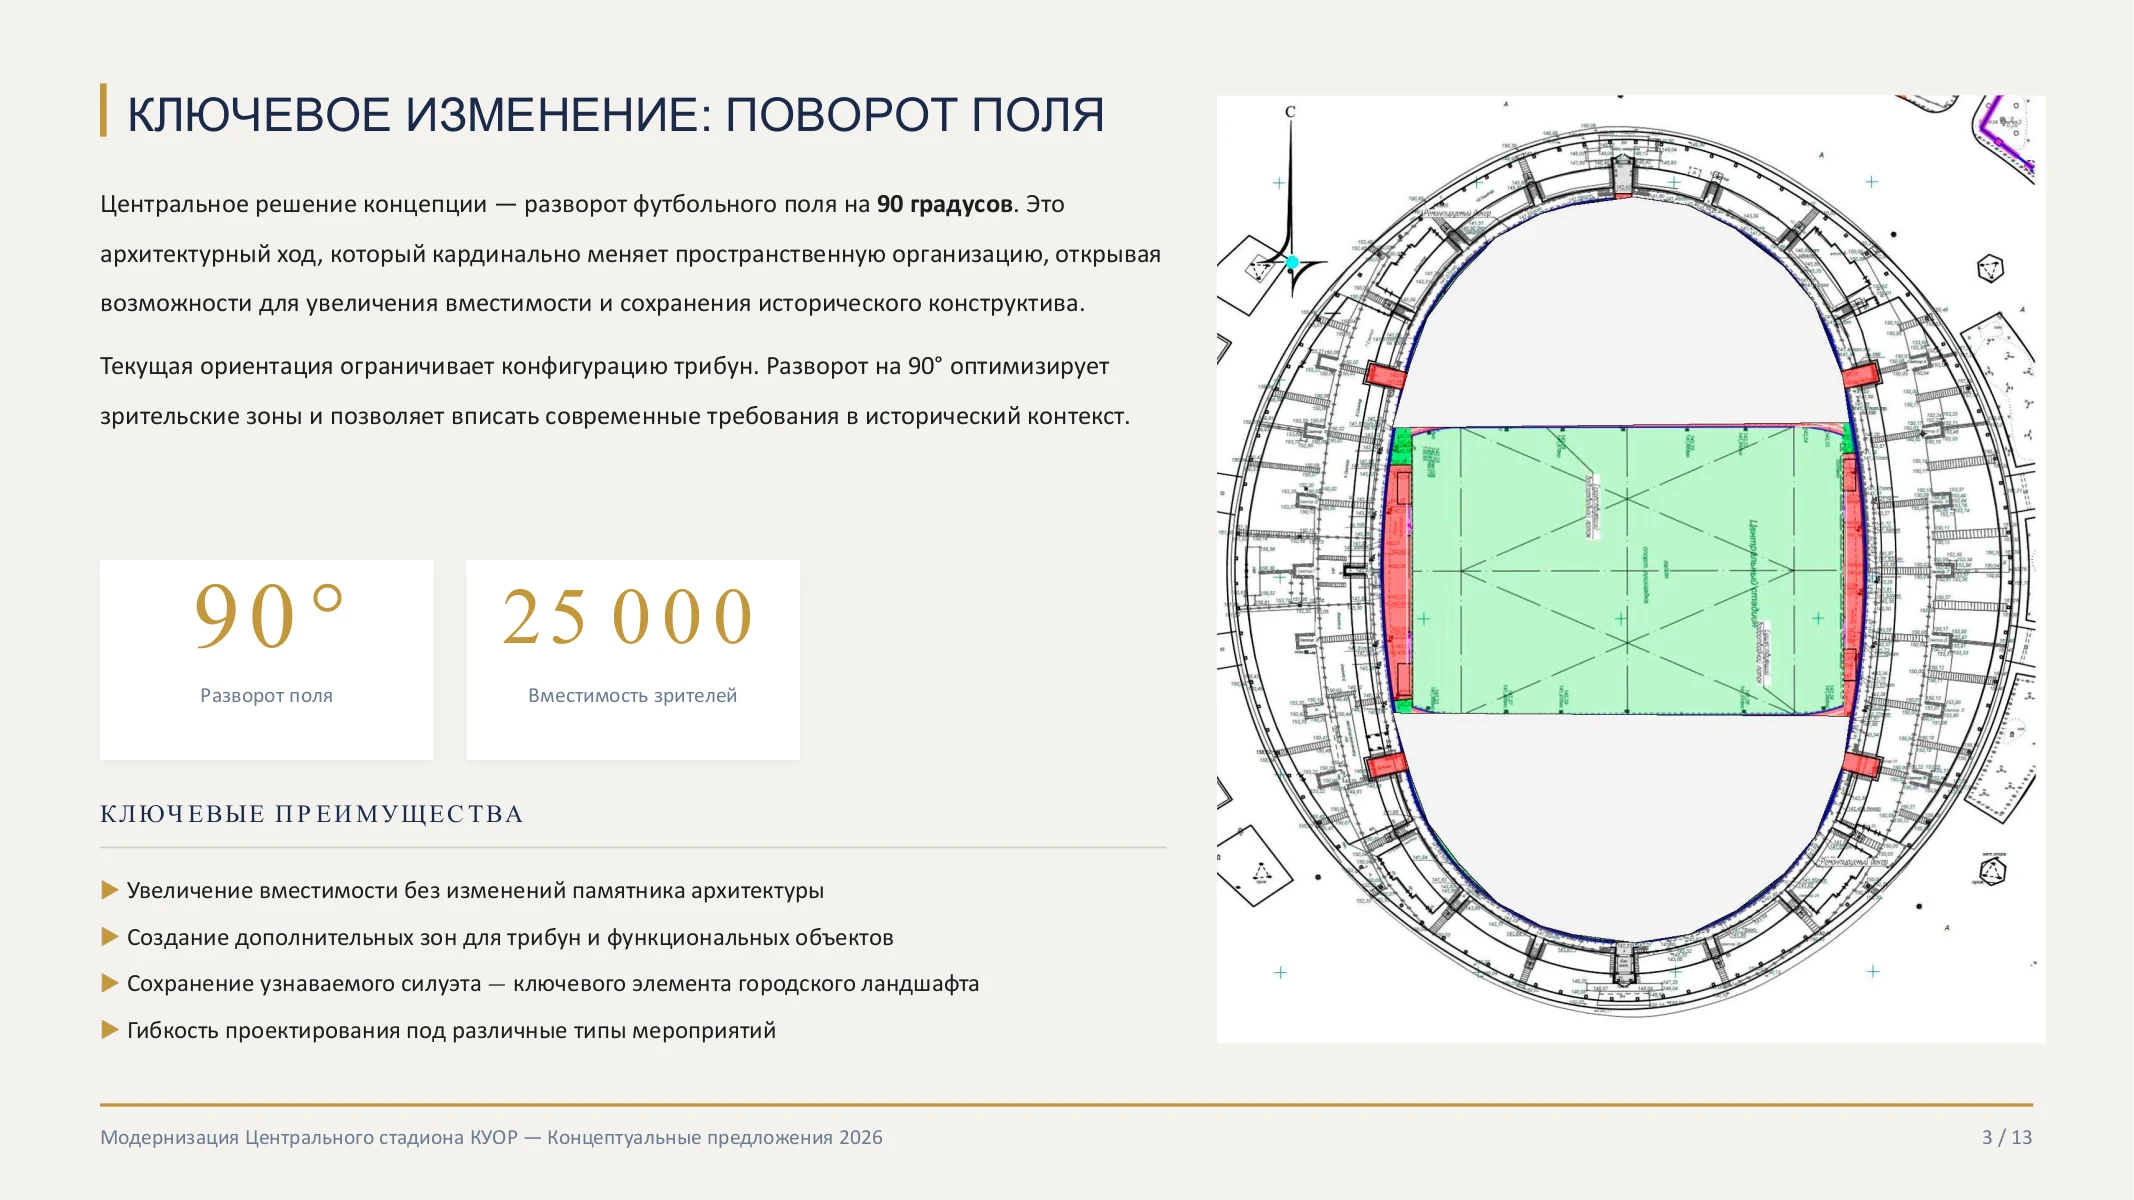
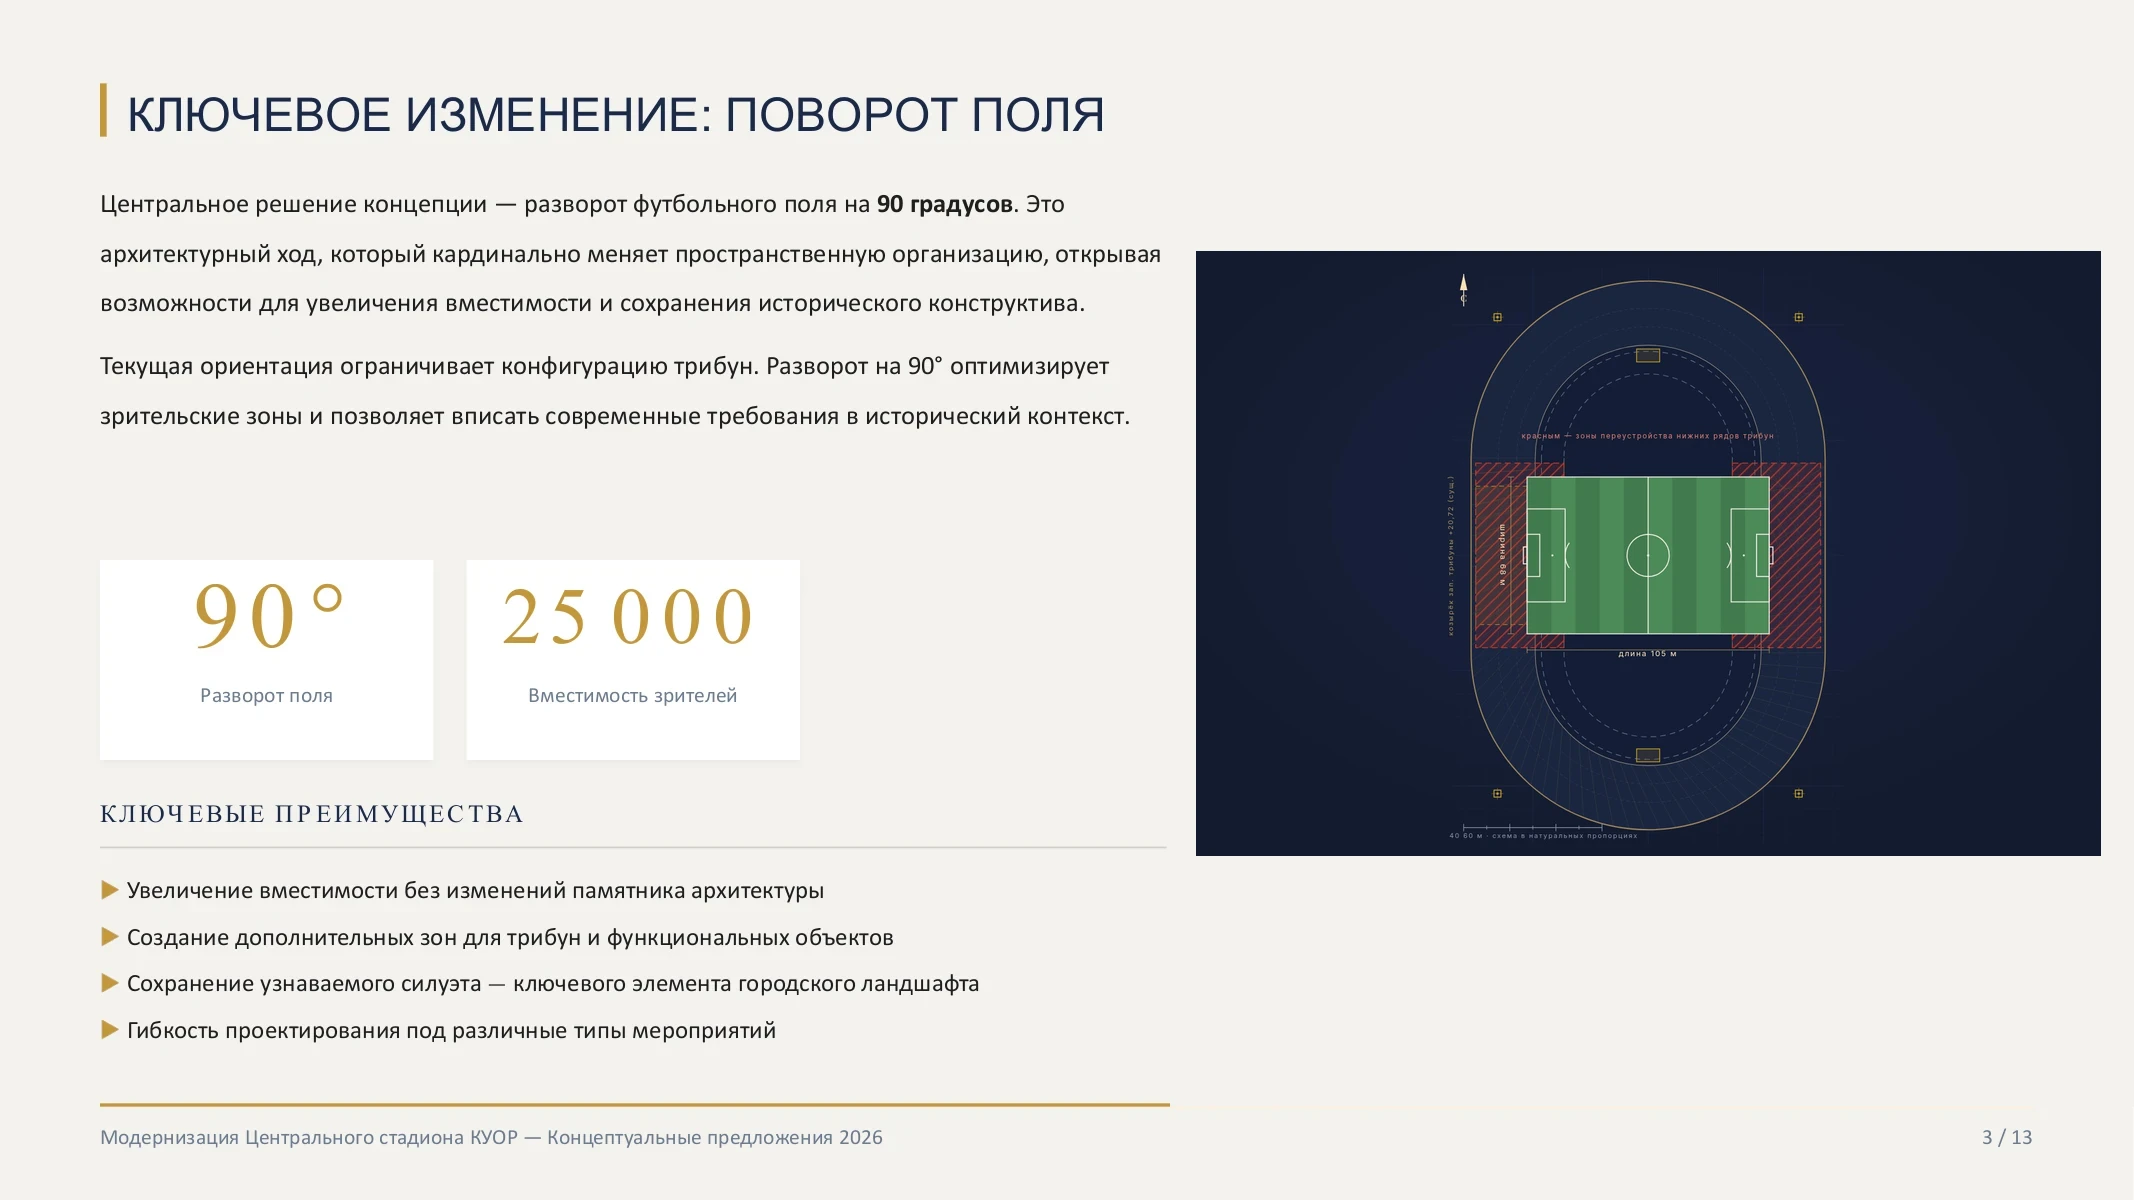
Зонирование поля: старый скан заменён на сгенерированную схему

diff --git a/architecture.html b/architecture.html
@@ -233,7 +233,7 @@
   ];
   const ZONE=[
     {f:'zoning_slide', tag:'2026', t:'Ключевое изменение: поворот поля', s:'Слайд концепции · обоснование разворота на 90°'},
-    {f:'zoning_field', tag:'Зонирование', t:'План зонирования уровня поля', s:'Зелёным — поле после разворота · красным — новые секции трибун · синим — сохраняемый контур'}
+    {f:'zoning_field', tag:'Зонирование', t:'План зонирования уровня поля', s:'Зелёным — поле 105×68 м после разворота · красным — зоны переустройства нижних рядов трибун'}
   ];
   const AR_P=[
     ['plan1-west','Лист 2','План 1 этажа · западная трибуна','Подтрибунные помещения · отм. 0.000'],
